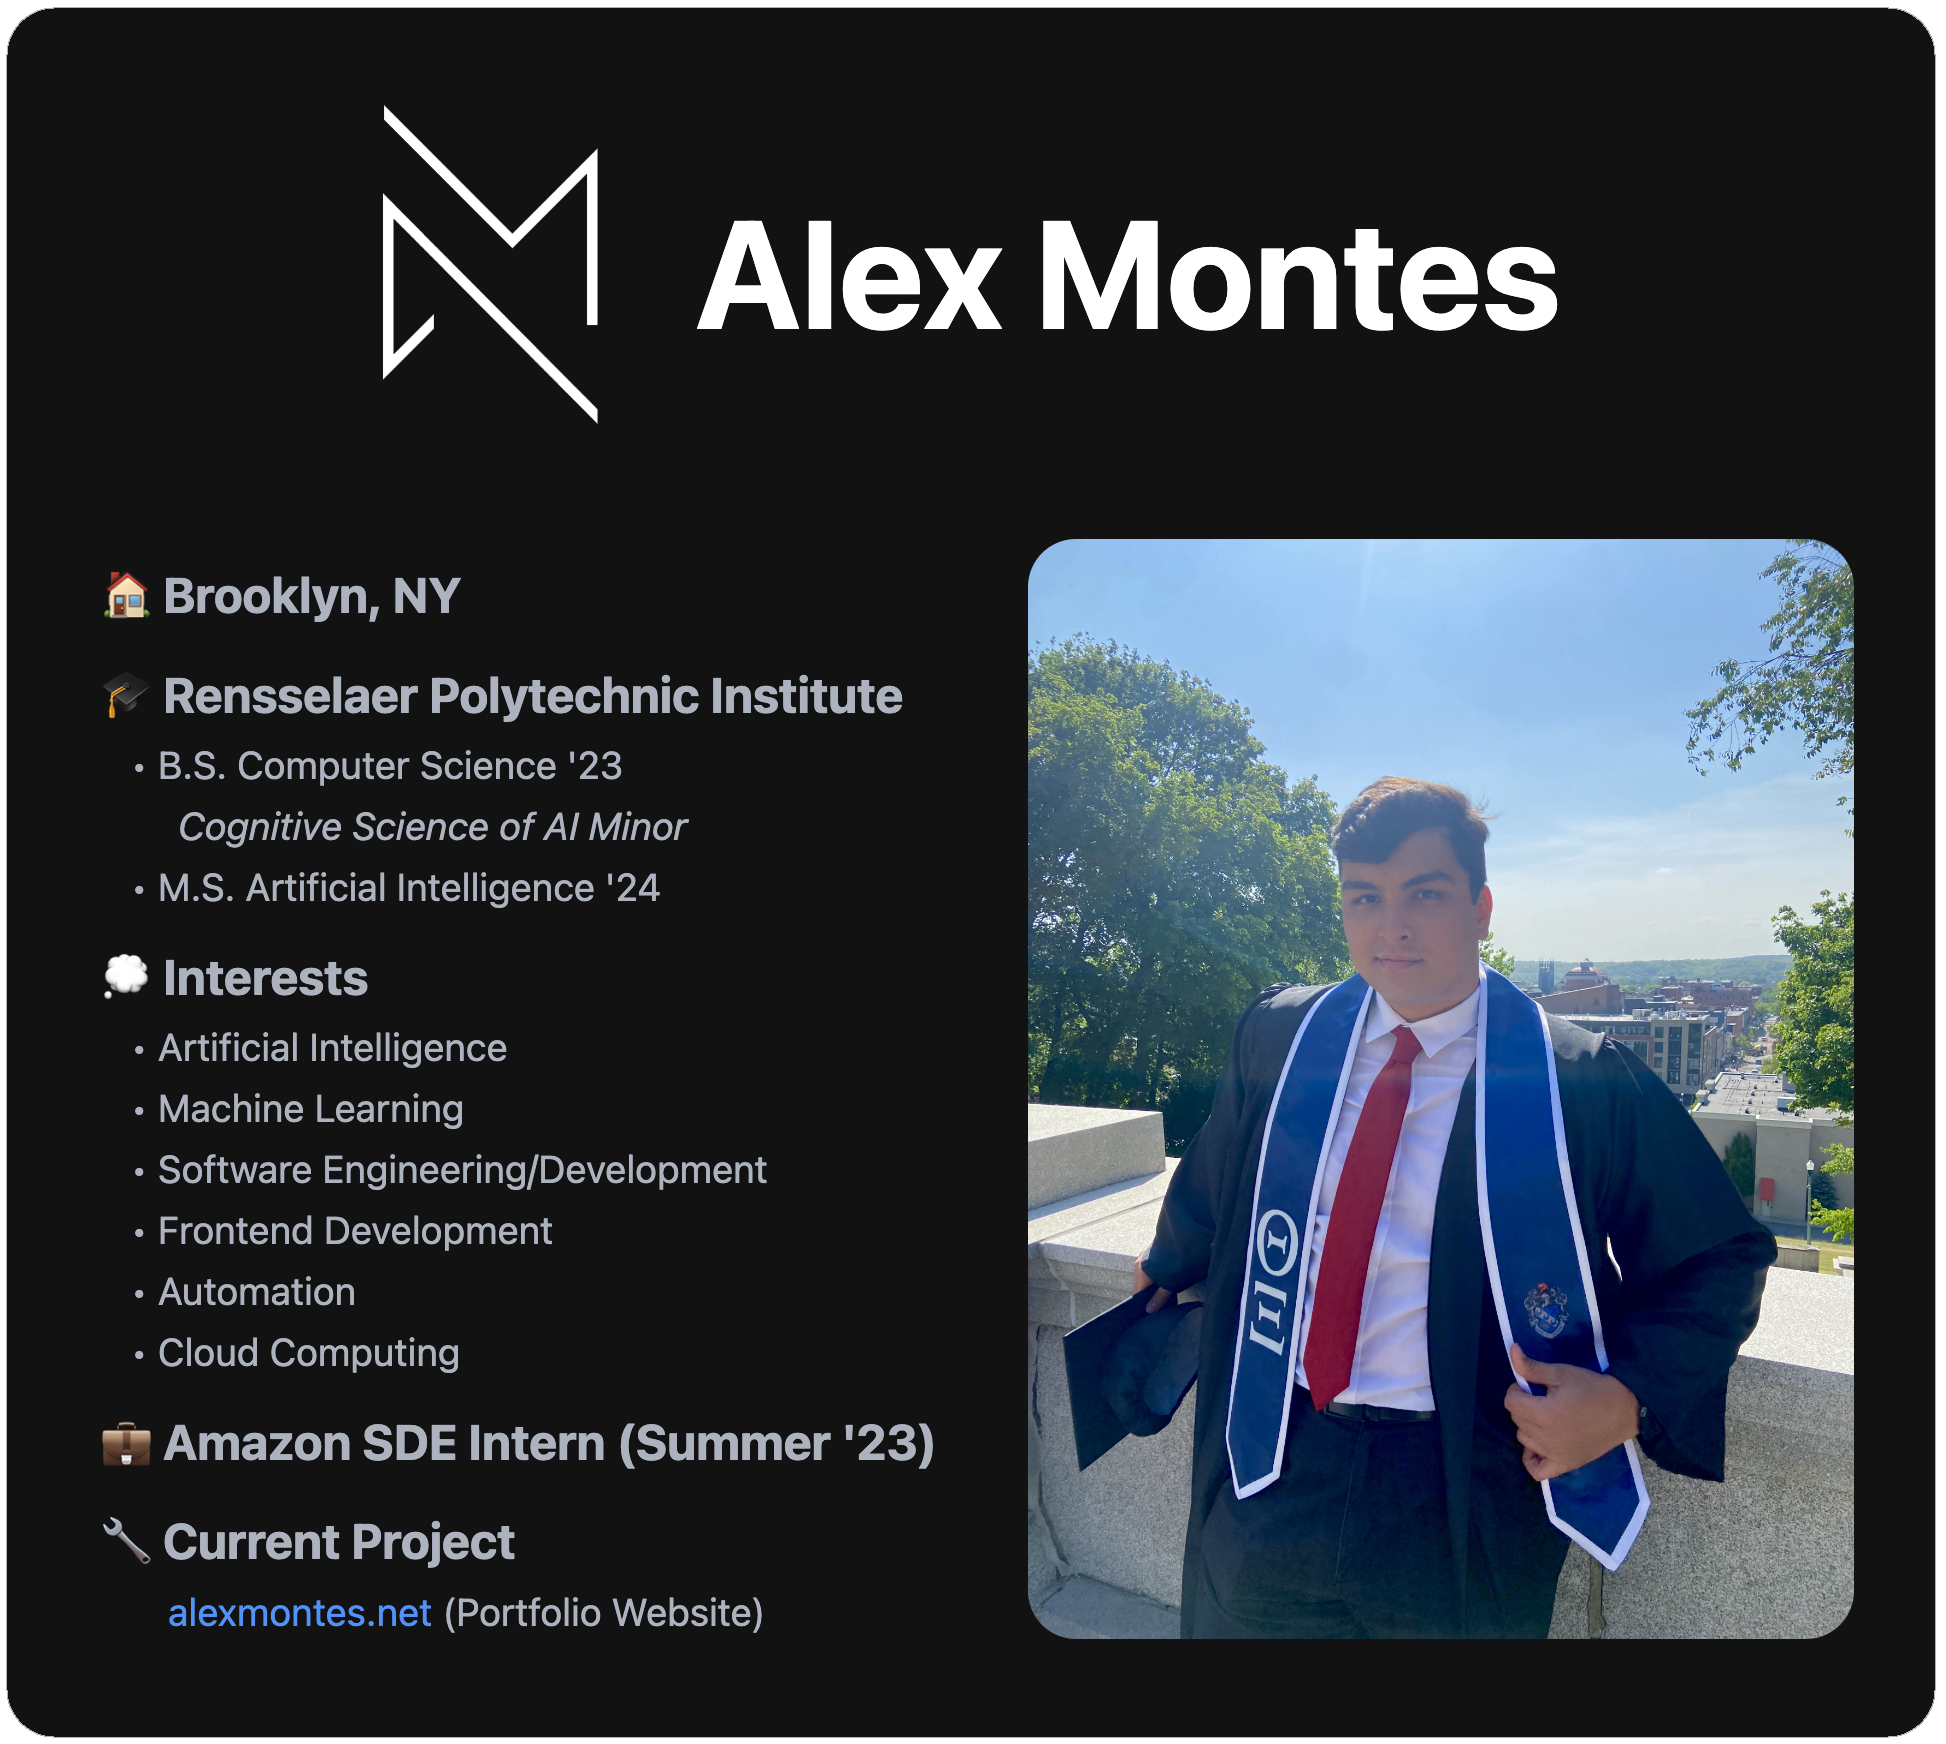
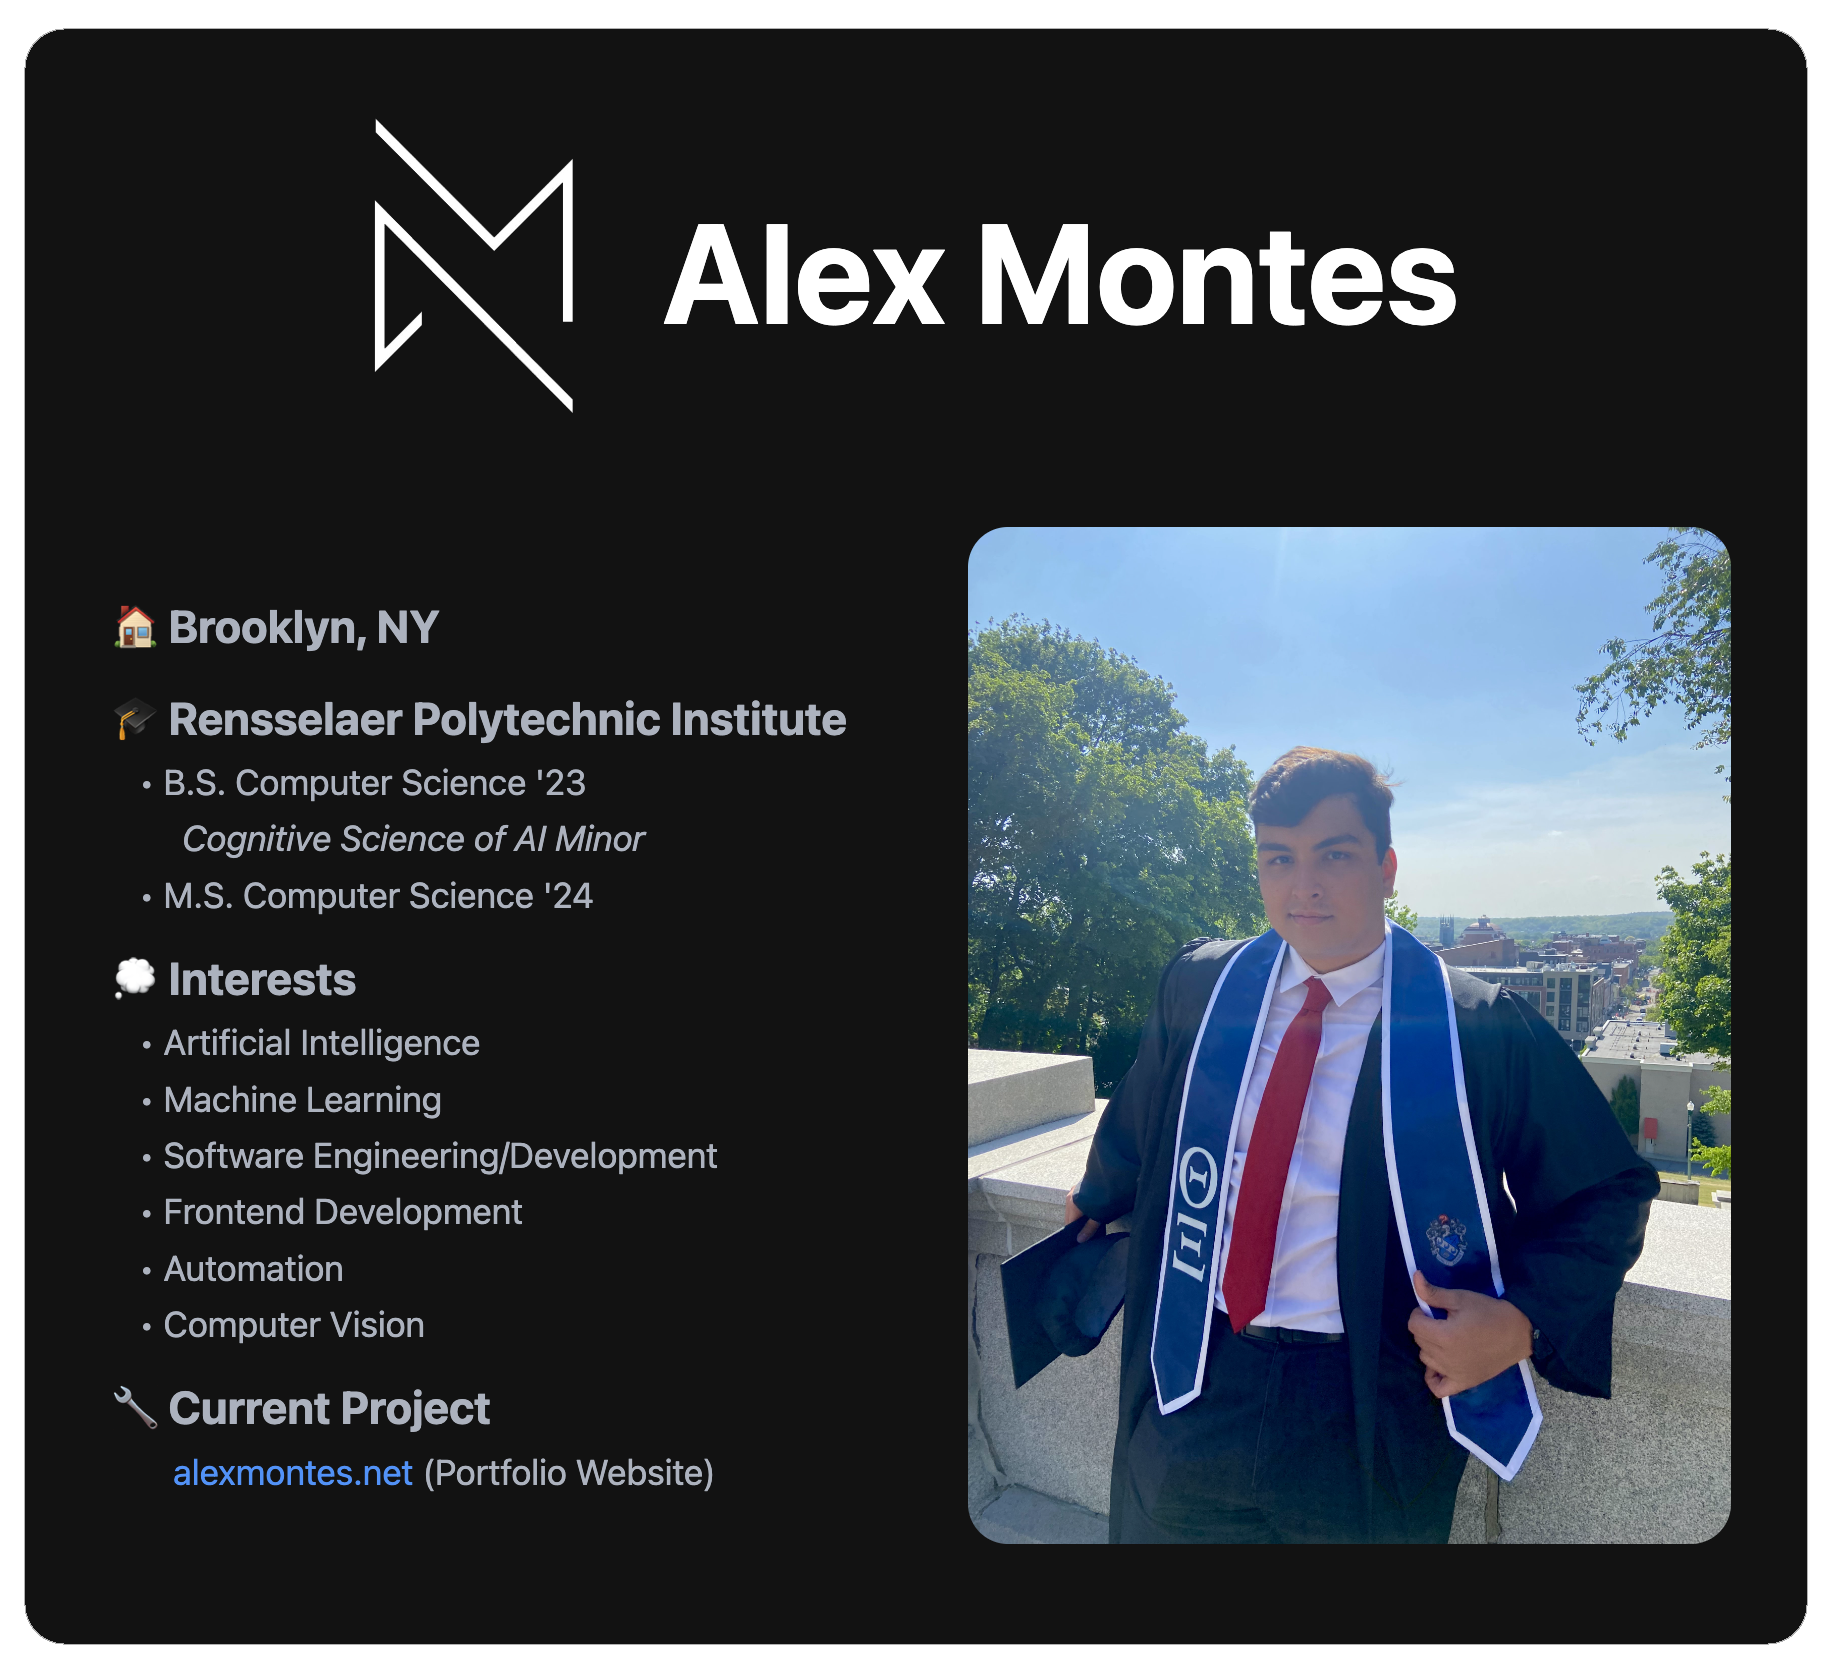
Remove AWS Internship from README

diff --git a/vs-code-preview.md b/vs-code-preview.md
@@ -5,7 +5,7 @@
         <div style="width:10vw;
                     display: inline-block;
                     vertical-align: middle;">
-            <img src="./assets/myLogo.png" alt="There should be a header here...">
+            <img src="./local/myLogo.png" alt="There should be a header here...">
         </div>
         <div style="font-size: 7vw;
                     font-weight: 700;
@@ -20,6 +20,9 @@
         <div align="left" style="display: inline-block;
                                  vertical-align: middle;
                                  width: 50%">
+            <div style="font-size: 1.125vw; margin-top: 2.25%;">
+                <br>
+            </div>
             <div style="font-size: 2.25vw; margin-top: 2.25%;">
                 🏠 <strong> Brooklyn, NY </strong> <br>
             </div>
@@ -33,7 +36,7 @@
                 &emsp; &ensp; <i> Cognitive Science of AI Minor </i> <br>
             </div>
             <div style="font-size: 1.75vw;">
-                &ensp; &#x2022; M.S. Artificial Intelligence '24 <br>
+                &ensp; &#x2022; M.S. Computer Science '24 <br>
             </div>
             <div style="font-size: 2.25vw; margin-top: 2.25%;">
                 💭 <strong> Interests </strong> <br>
@@ -54,10 +57,7 @@
                 &ensp; &#x2022; Automation <br>
             </div>
             <div style="font-size: 1.75vw;">
-                &ensp; &#x2022; Cloud Computing <br>
-            </div>
-            <div style="font-size: 2.25vw; margin-top: 2.25%;">
-                💼 <strong> Amazon SDE Intern (Summer '23) </strong> <br>
+                &ensp; &#x2022; Computer Vision <br>
             </div>
             <div style="font-size: 2.25vw; margin-top: 2.25%;">
                 🔧 <strong> Current Project </strong> <br>
@@ -65,7 +65,10 @@
             <div style="font-size: 1.75vw;">
                 &emsp;&ensp; <a style="text-decoration: none;" href="https://alexmontes.net" target="_blank">alexmontes.net</a> (Portfolio Website) <br>
             </div>
+            <div style="font-size: 1.125vw; margin-top: 2.25%;">
+                <br>
+            </div>
         </div>
-        <img style="border-radius: 20px; display: inline-block; vertical-align: middle; width: 45%" src="./assets/gradPicture.jpg">
+        <img style="border-radius: 20px; display: inline-block; vertical-align: middle; width: 45%" src="./local/gradPicture.jpg">
     </div>
 </div>
